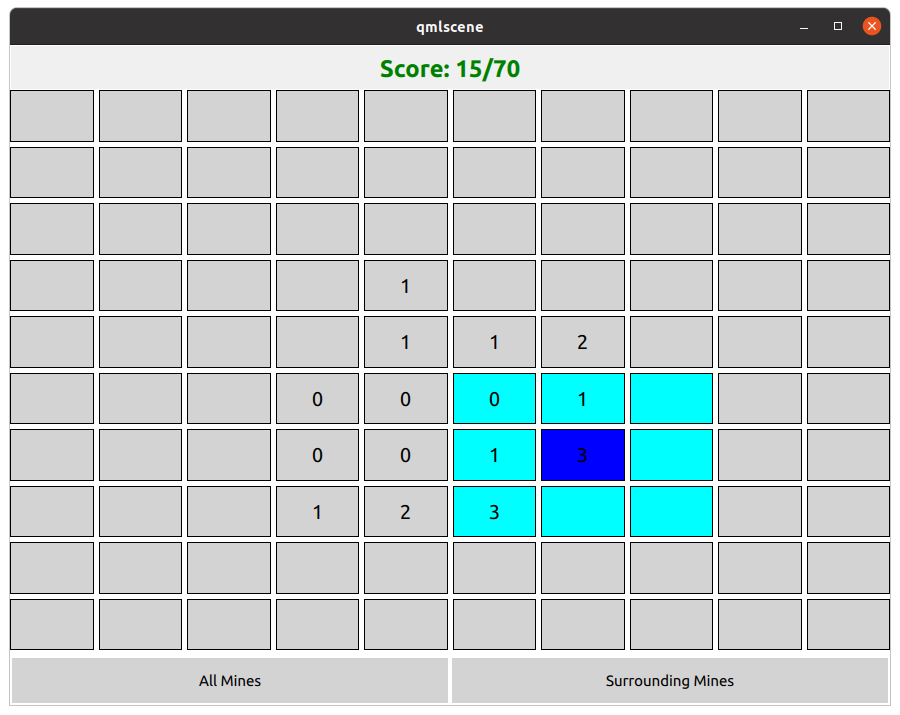
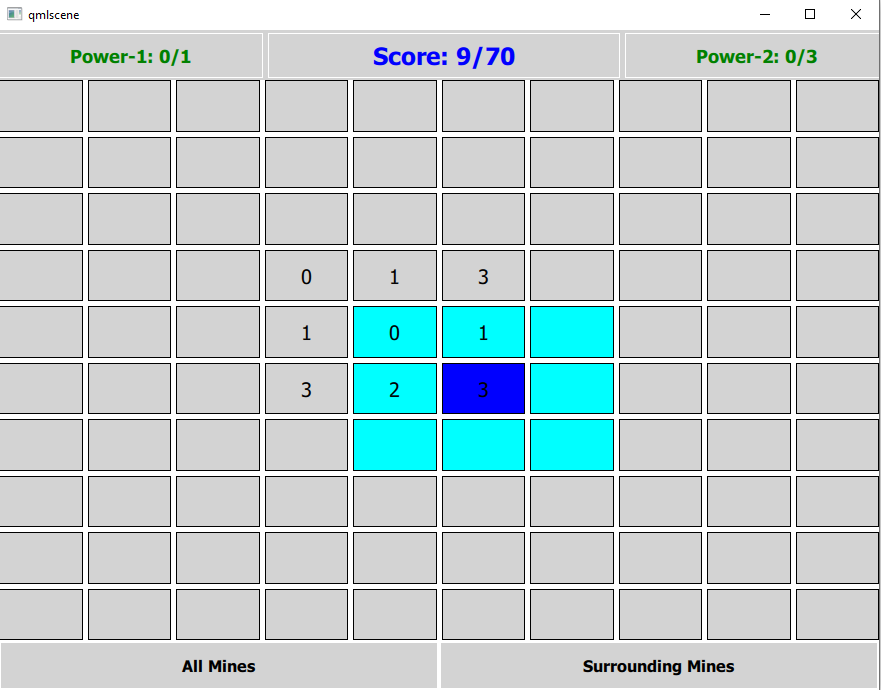
Limited power

diff --git a/MineSweeper.qml b/MineSweeper.qml
@@ -3,28 +3,34 @@ import QtQuick.Layouts    1.12
 import QtQuick.Dialogs    1.3
 
 Rectangle {
-    id: _root
-    width:                      (80*_columnCount)+80
-    height:                     (50*_rowCount)+60+(50 * 2)
-    color:                      "white"
+    id:                           _root
+    width:                        (80*_columnCount)+80
+    height:                       (50*_rowCount)+60+(50 * 2)
+    color:                        "white"
 
-    property int _rowCount:     10
-    property int _columnCount:  10
-    property int _gridSize:     _rowCount * _columnCount
-    property int _mineCount:    Math.floor(_gridSize * 0.3)
-    property int _winScore:     _gridSize - _mineCount
-    property int _lastButton:   -1
-    property int _score:        0
-    property bool _firstClick:  false
-    property var _mines:        []
+    property int _rowCount:       10
+    property int _columnCount:    10
+    property int _gridSize:       _rowCount * _columnCount
+    property int _mineCount:      Math.floor(_gridSize * 0.3)
+    property int _winScore:       _gridSize - _mineCount
+    property int _lastButton:     -1
+    property int _score:          0
+    property bool _firstClick:    false
+    property var _mines:          []
+    property int _maxPower1:      1
+    property int _power1:         0
+    property int _maxPower2:      3
+    property int _power2:         0
+
     property alias _repeater:   gridContainer.repeater
-
 
     function resetGame() {
         _firstClick = false;
         _score = 0;
         _mines = [];
         _lastButton = -1;
+        _power1 = 0;
+        _power2 = 0;
 
         for(let i = 0; i < _gridSize; ++i) {
             _repeater.itemAt(i)._clicked = false;
@@ -68,32 +74,73 @@ Rectangle {
     }
 
     Rectangle {
-        id:            scoreLabel
-        anchors.left:  parent.left
-        anchors.top:   parent.top
-        width:         parent.width
-        height:        45
-        color:         "#f0f0f0"
-        border.color:  Qt.lighter(color)
+        id: header
+        anchors.left: parent.left
+        anchors.top: parent.top
+        width: parent.width
+        height: 50
+        color: "lightgray"
 
-        Text {
-            anchors.centerIn: parent
-            font.bold:        true
-            font.pixelSize:   24
-            color:            "green"
-            text:             qsTr("Score: %1/%2".arg(_score).arg(_winScore));
-        }
-        Component.onCompleted: {
-            console.log("_gridSize:", _gridSize)
-            console.log("_mineCount:", _mineCount)
-            console.log("_winScore:", _winScore)
+        RowLayout {
+            anchors.fill: parent
+            Rectangle {
+                id:                     p1Label
+                Layout.fillWidth:       true
+                Layout.minimumWidth:    _root.width * .3
+                Layout.preferredWidth:  _root.width * .3
+                Layout.maximumWidth:    _root.width * .3
+                Layout.minimumHeight:   45
+                color:                  "lightgray"
+                border.color:           Qt.lighter(color)
+                Text {
+                    anchors.centerIn:   parent
+                    font.bold:          true
+                    font.pixelSize:     18
+                    color:              "green"
+                    text:               qsTr("Power-1: %1/%2".arg(_power1).arg(_maxPower1))
+                }
+            }
+
+            Rectangle {
+                Layout.minimumWidth:    _root.width * .4
+                Layout.preferredWidth:  _root.width * .4
+                Layout.maximumWidth:    _root.width * .4
+                Layout.minimumHeight:   45
+                color:                  "lightgray"
+                border.color:           Qt.lighter(color)
+                Text {
+                    anchors.centerIn:  parent
+                    font.bold:         true
+                    font.pixelSize:    24
+                    color:             "blue"
+                    text:              qsTr("Score: %1/%2".arg(_score).arg(_winScore));
+                }
+            }
+
+            Rectangle {
+                Layout.minimumWidth:    _root.width * .3
+                Layout.preferredWidth:  _root.width * .3
+                Layout.maximumWidth:    _root.width * .3
+                Layout.minimumHeight:   45
+                color:                  "lightgray"
+                border.color:           Qt.lighter(color)
+                Text {
+                    anchors.centerIn:   parent
+                    font.bold:          true
+                    font.pixelSize:     18
+                    color:              "green"
+                    text:               qsTr("Power-2: %1/%2".arg(_power2).arg(_maxPower2))
+                }
+
+            }
+
         }
     }
 
     Rectangle {
         id:            gridContainer
         anchors.left:  parent.left
-        anchors.top:   scoreLabel.bottom
+        anchors.top:   header.bottom
 
         width:         parent.width
         height:        parent.height - 100
@@ -147,13 +194,11 @@ Rectangle {
                                     let totalMines = _mineCount;
                                     while(totalMines) {
                                         let rx = Math.floor(Math.random() * _gridSize);
-                                        console.log("rx: ", rx);
                                         if(rx === index || _mines[rx] === -1)
                                             continue;
                                         _mines[rx] = -1;
                                         --totalMines;
                                     }
-                                    console.log("_mines", _mines, _mineCount)
                                 }
 
                                 if(_mines[index] === -1) {
@@ -174,7 +219,6 @@ Rectangle {
 
                                 // highlight neighbours
                                 let cells = getSurroundingCells(index);
-                                console.log(cells);
                                 for(let i = 0; i < cells.length; ++i) {
                                     const [x, y] = cells[i];
                                     repeater.itemAt(x*_columnCount+y).color = "cyan";
@@ -193,8 +237,6 @@ Rectangle {
                                 _score++;
                                 _text = mineCount.toString();
                                 _lastButton = index;
-                                console.log("_lastButton:", _lastButton)
-
                                 if(_score === _winScore) {
                                     winDialog.visible = true;
                                 }
@@ -214,16 +256,19 @@ Rectangle {
 
         width:                 parent.width/2 - 4
         height:                45
-        color:                "lightgray"
+        color:                (_power1 < _maxPower1) ? "lightgray" : "darkgray"
         Text {
             anchors.centerIn:  parent
+            font.bold:         true
+            font.pixelSize:    16
             text:              qsTr("All Mines")
         }
         MouseArea {
             anchors.fill:      parent
             onPressed: {
-                if(!_firstClick) return;
+                if(!_firstClick || _power1 > _maxPower1) return;
 
+                ++_power1;
                 for(let i = 0; i < _gridSize; ++i) {
                     if(_mines[i] === -1)
                         _repeater.itemAt(i).color = "red";
@@ -257,15 +302,19 @@ Rectangle {
 
         width:                 parent.width/2 - 4
         height:                45
-        color:                "lightgray"
+        color:                (_power2 < _maxPower2) ? "lightgray" : "darkgray"
         Text {
             anchors.centerIn:  parent
+            font.bold:         true
+            font.pixelSize:    16
             text:              qsTr("Surrounding Mines")
         }
         MouseArea {
             anchors.fill:      parent
             onPressed: {
-                if(!_firstClick) return;
+                if(!_firstClick || _power2 > _maxPower2) return;
+
+                ++_power2;
                 let cells = getSurroundingCells(_lastButton);
                 for(let i = 0; i < cells.length; ++i) {
                     let [x, y] = cells[i];
